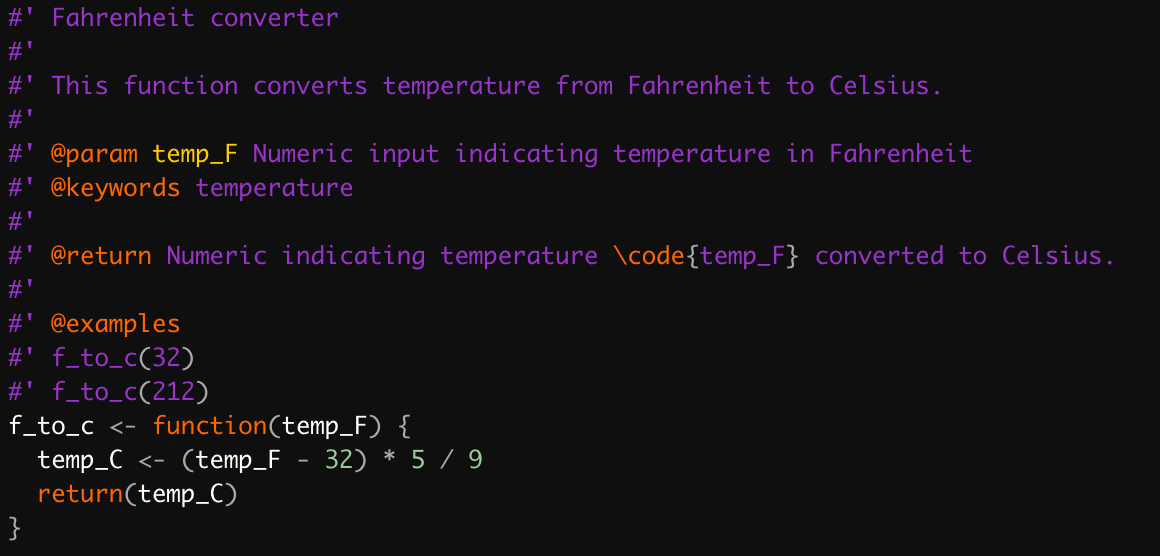
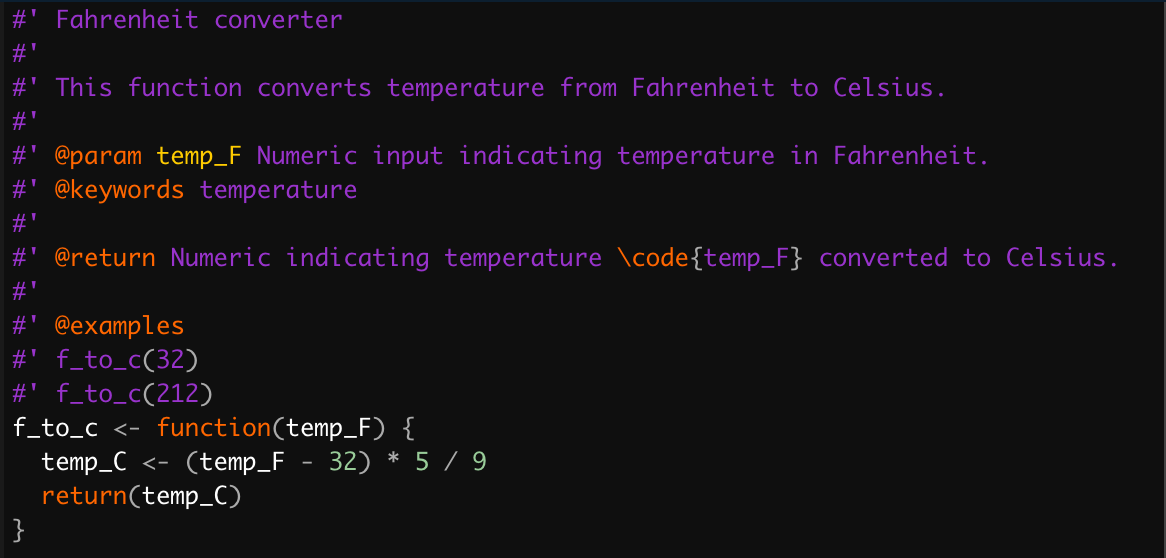
Fix temp images and typos LS9

diff --git a/docs/LectureSlides/lectureslides9/lectureslides9.html b/docs/LectureSlides/lectureslides9/lectureslides9.html
@@ -474,12 +474,12 @@ Instructions from the official [travis CI tutorial](https://docs.travis-ci.com/u
 
 # Step 9: Set up travis in your package (*)
 
-1. Within your console, enter `use_this::use_testthat()`. This will:
+1. Within your console, enter `usethis::use_testthat()`. This will:
   * Create a `tests/testthat` directory for storing your tests
   * Adds `testthat` to the `Suggests` field in `DESCRIPTION`
   * Creates `tests/testthat.R` which runs your tests automatically whenever you check your package.
 2. Within your console, enter `usethis::use_travis()`. This will:
-  * Create a `.travis.yml` file and add it to your `.gitignore`
+  * Create a `.travis.yml` file and add it to your `.Rbuildignore`
   * Push you to the travis website.
   * Provide the markdown to insert a badge into `README`.
 3. Activate travis for your repo at the travis website.
